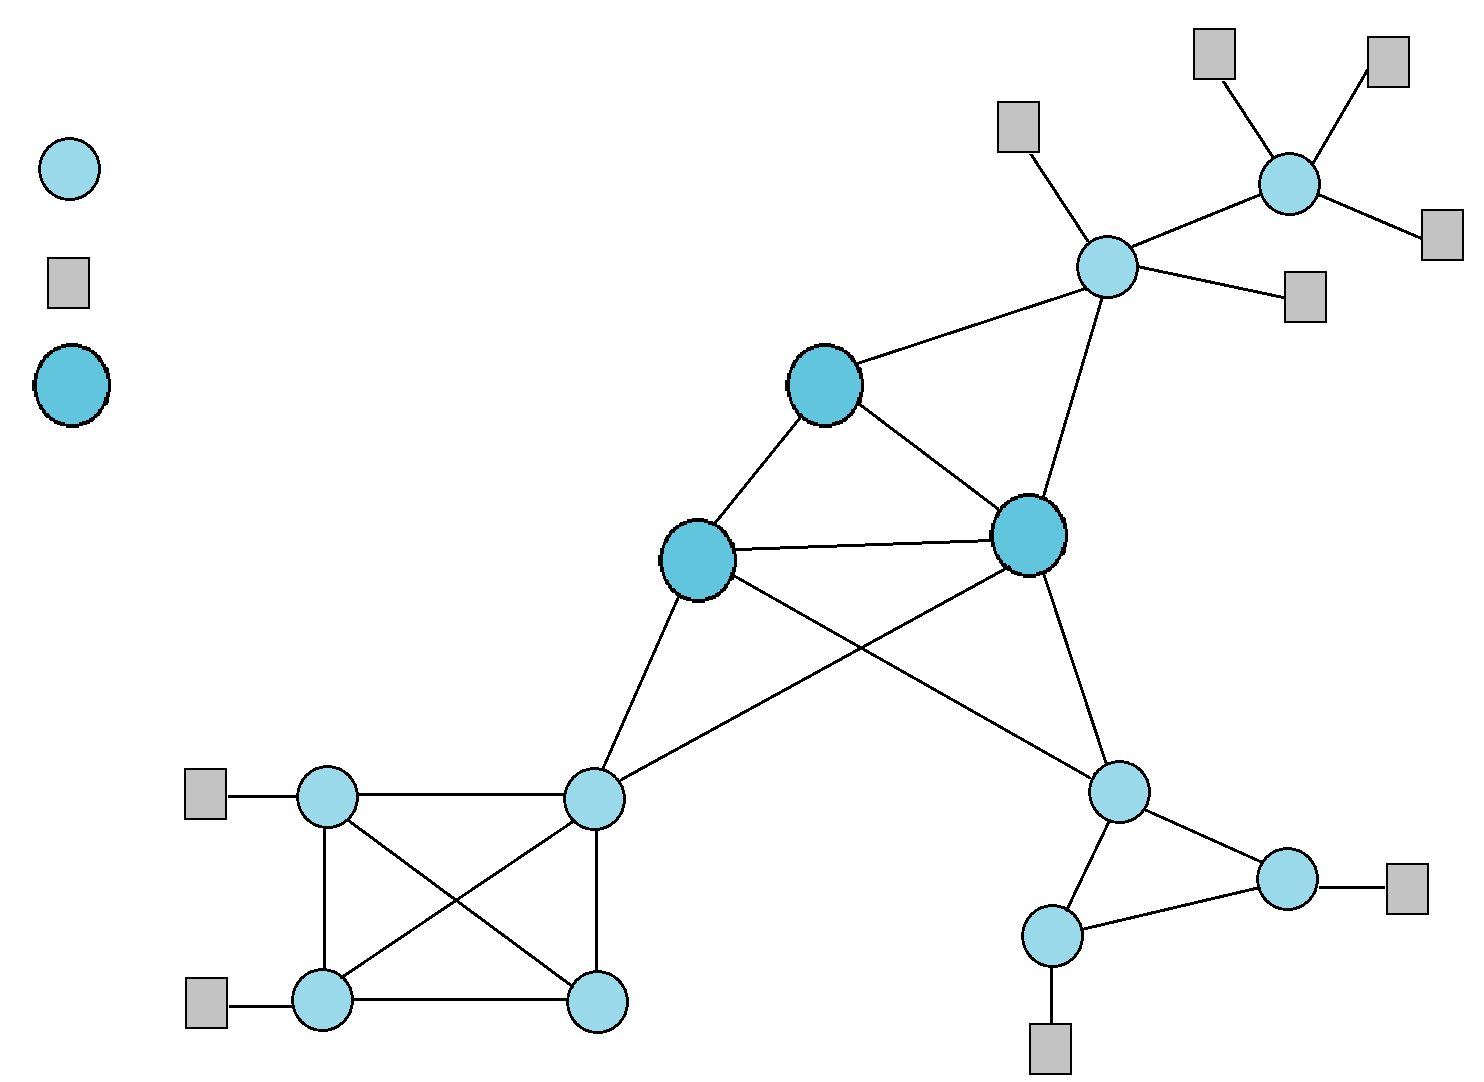
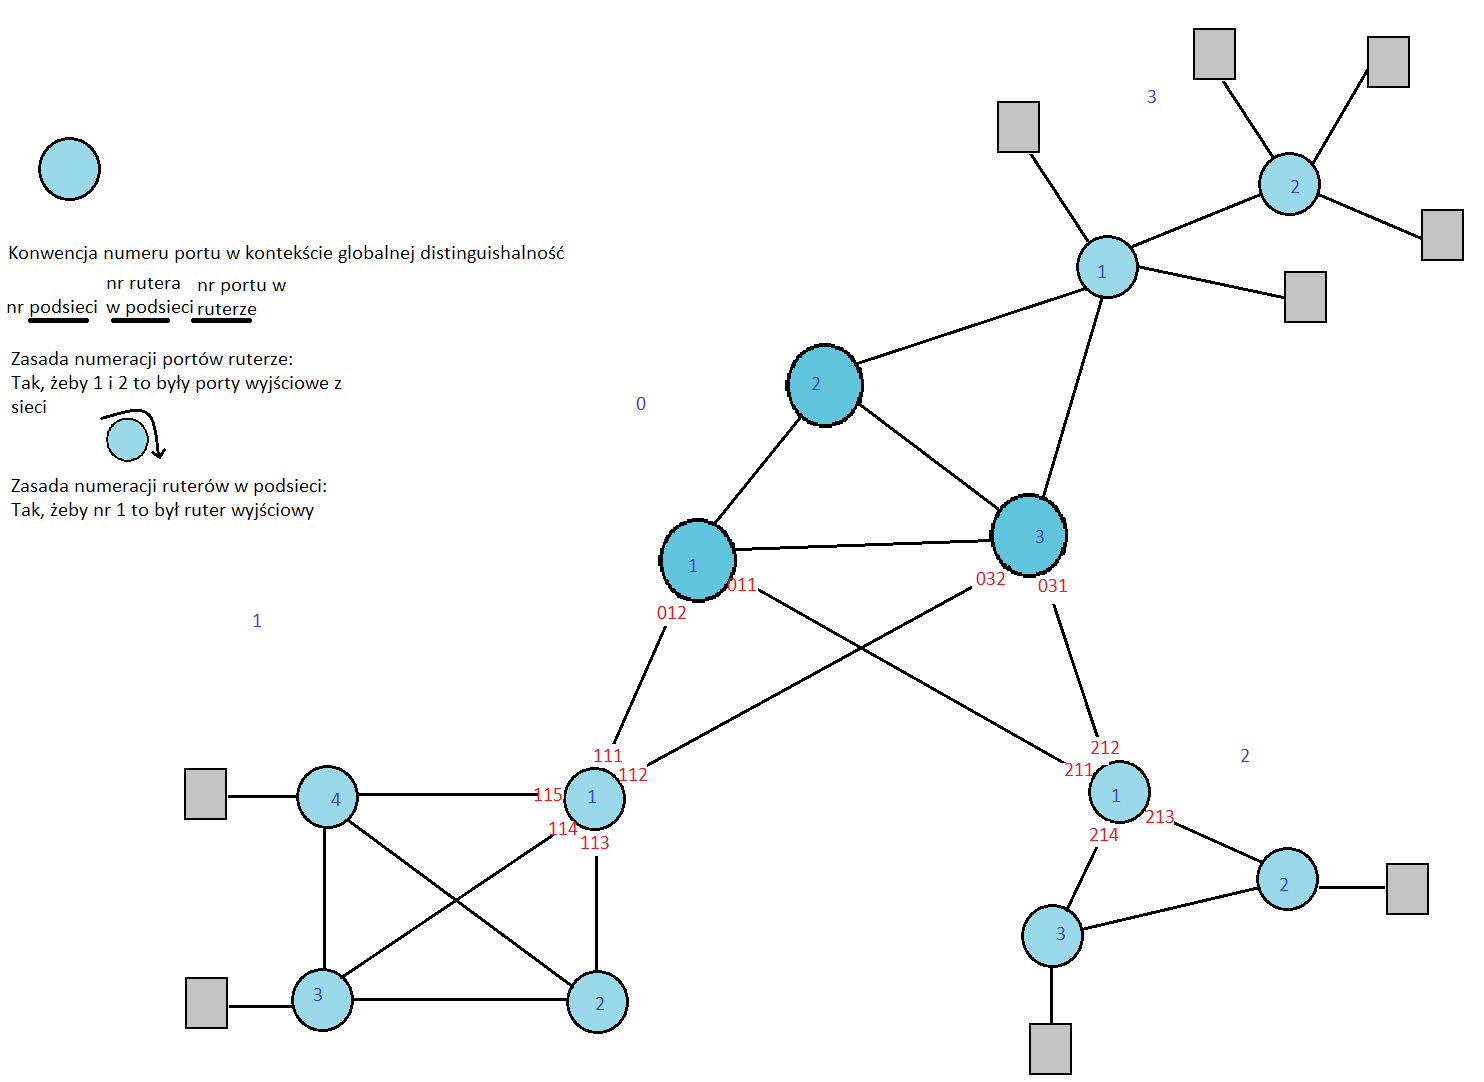
Nazewnictwo portow, ruterow i podsieci

diff --git a/TSST2.md b/TSST2.md
@@ -929,7 +929,7 @@ Programy do napisania:
 - CC strefy
 - CC podsieci (ewentualnie można napisać jeden program i w configu dać TYPE)
 
-Moduły do dodanie do istniejących programów:
+Moduły do dodania do istniejących programów:
 
 - CC do routera
 - LRM do routera
@@ -943,9 +943,9 @@ Różnice z projektem 1 (oprócz dodanie tych modułów)
 
 ### 7.4.1 CPCC - Calling Party Call Controller
 
-**CallAcceptPYT(dstName) from NCC**
+**CallAcceptPYT(srcName) from NCC**
 
-Wyświetli się komunikat czy przyjąć połączenie od Babackiego. User kliknie Tak lub Nie, co będzie skutkowało CallAccept(res), gdzie res = OK lub REFUSED.
+Wyświetli się komunikat czy przyjąć połączenie od srcName. User kliknie Tak lub Nie, co będzie skutkowało CallAccept(res), gdzie res = OK lub REFUSED.
 
 #### 7.4.2 NCC - Network Party Call Controller
 
@@ -997,7 +997,7 @@ Też należy rozróżnić 3 scenariusze, w których CC różnie się zachowują.
 
 **ACHTUNG**
 
-CC musi reagować jak dostanie gateway od RC jako NULL, to znaczy, że nie ma trasy wolnej. Wtedy niech odpowie z res=REFUSED
+CC musi reagować jak dostanie gateway od RC jako NULL, to znaczy, że nie ma trasy wolnej. Wtedy niech odpowie z res=REFUSED.
 
 CC czasem może dostać dstZone nie jedna liczbę a dwie, więc musi sprawdzać wszystkie. Bo jest parę punktów wyjściowych ze strefy.
 
@@ -1149,3 +1149,56 @@ plik: SDL/LRM.html
 
 Nwm czy to będzie poczebne.
 
+## 8 Prezentacja
+
+## 8.1 Prezentowana sieć
+
+### 8.1.1 Nazewnictwo portów i routerów
+
+![porty](img/porty.png)
+
+#### 8.1.1.1 Nazewnictwo podsieci
+
+SN1 i SN2 to podsieci klienckie należące to strefy s1
+
+SN0 to podsieci tranzytowa należąca do strefy s1
+
+SN3 to podsieć kliencka należąca do strefy s2
+
+#### 8.1.1.2 Nazewnictwo routerów
+
+Nazwa routera rozpoczyna się od litery z alfabetu łacińskiego "R". Jak odejmiemy od "Router", "outer" czyli jakaś zewnętrzna niepotrzebna nam otoczka słowa, to zostanie nam "R". Korzystamy tutaj z zalecenia wymyślania ksywek zestandaryzowanego przez Pudziana.
+
+Drugi znak nazwy routera mówi nam, do której podsieci należy router.
+
+Trzeci znak mówi o numerze routera w podsieci. Tutaj przyjmujemy konwencję, że router pełniący rolę węzła wyjściowego ma nr 1. Lecimy clockwise z numerami.
+
+> Przykład R12.
+>
+> Ten router należy do podsieci SN1 i ma w niej numer 2, czyli jest pierwszy na prawo od routera wyjściowego.
+
+#### 8.1.1.3 Nazewnictwo portów
+
+Nazwa portu składa się z 3 liczb.
+
+Pierwsze dwie to numer routera. 
+
+Trzecia numer portu w routerze. Tutaj konwencja istnieje tylko dla routera wyjściowego. Jego porty wychodzące do węzłów nadrzędnych podsieci mają numery 1 i 2. Od nich numerujemy clockwise.
+
+> Przykład 213
+>
+> Port należy do R21, czyli jest w SN2, należy do routera o numerze 1 i jest trzecim portem z kolei w tym routerze. 
+>
+> Można jeszcze o nim powiedzieć, że jest na prawo od portu 2, czyli wyjściowego portu z podsieci, bo router R21 jest węzłem wyjściowym z SN2.
+
+#### 8.1.1.3 Nazewnictwo portów hostów dla CableCloud
+
+Każdy host ma odpowiadający mu port po stronie sieci.
+
+Więc może by dodawać jakąś cyferkę na koniec.
+
+>Przykład 1319
+>
+>Host o takim porcie jest połączony z siecią portem 131.
+>
+>A 9 na końcu nam mówi od razu, że jest to port należący do klienta a nie naszej sieci.
